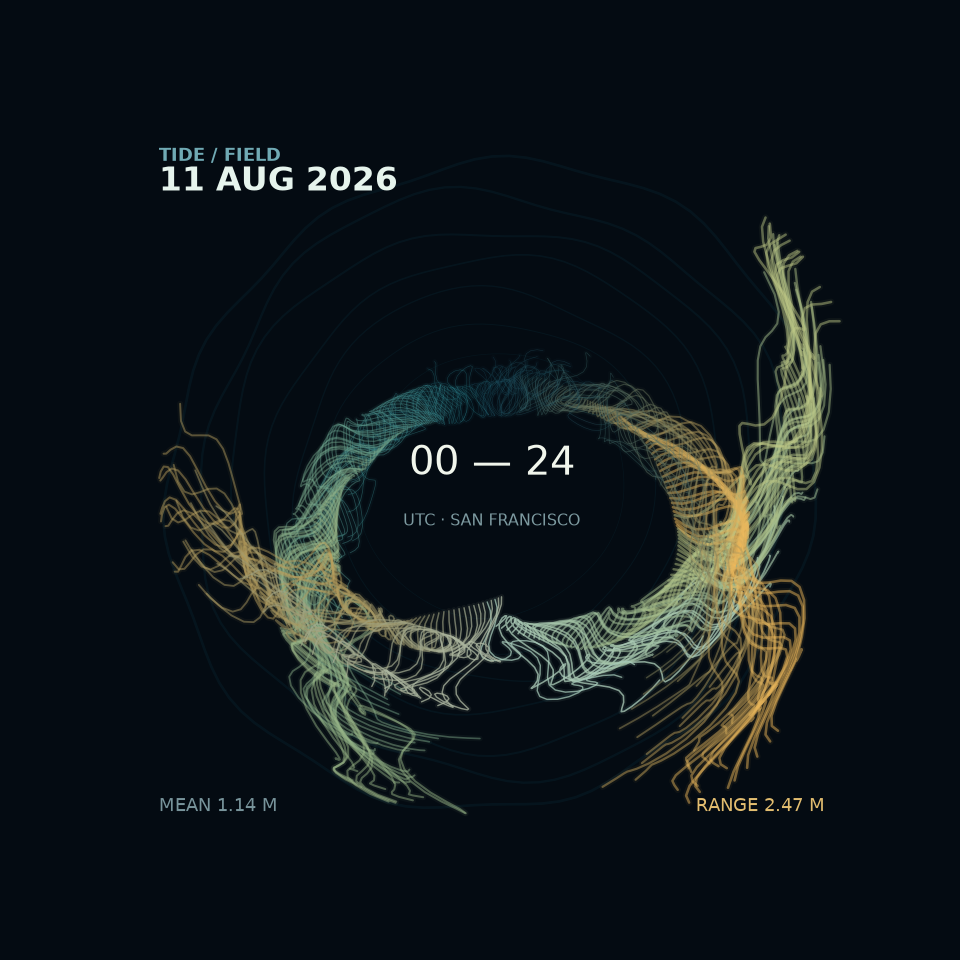
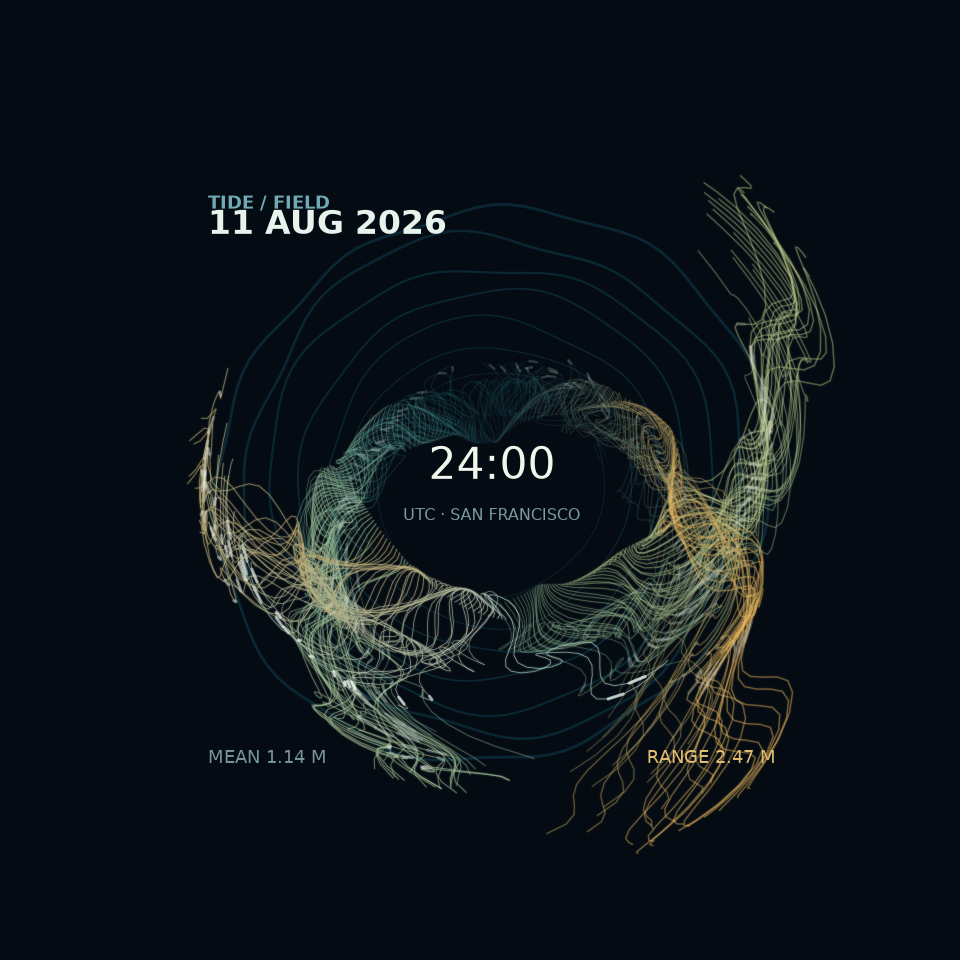
update plot

diff --git a/plot.py b/plot.py
@@ -9,7 +9,7 @@
 
 The renderer reads only the committed JSON in data/. Each of the 7,440 NOAA
 observations becomes a long streamline in a custom two-dimensional flow field.
-Eight frames reveal each UTC day in sequence, so the GIF follows the
+Twenty-four frames reveal each UTC day hour by hour, so the GIF follows the
 measurements' real order without fetching anything.
 """
 
@@ -24,11 +24,12 @@ matplotlib.use("Agg")  # create image files reliably, including on GitHub Action
 import matplotlib.pyplot as plt
 from matplotlib.animation import PillowWriter
 from matplotlib.collections import LineCollection
+from PIL import Image
 
 FILE = "noaa-san-francisco-water-level-2026-08.json"
 ANIMATION = "tidal-mycelium-2026-08.gif"
 STILL = "tidal-mycelium-still.png"
-STEPS_PER_DAY = 8  # one animated step per three hours of observations
+STEPS_PER_DAY = 24  # one animated step per hour, releasing ten six-minute readings
 
 HERE = Path(__file__).parent
 DATA = HERE / "data" / FILE
@@ -72,6 +73,12 @@ def mix(first, second, amount):
     return tuple(a + (b - a) * amount for a, b in zip(first, second))
 
 
+def smooth(value):
+    """Ease the birth of a new observed filament without a hard edge."""
+    value = clamp(value)
+    return value * value * (3 - 2 * value)
+
+
 def colour(level_fraction, rising):
     """Map low water to teal and high water to luminous mineral gold."""
     low = (0.03, 0.25, 0.33)
@@ -90,18 +97,24 @@ def day_stats(day, low_level, high_level, smallest_range, largest_range):
     return mean_fraction, range_fraction, day_mean, day_range
 
 
-def filament_collections(day, flow_phase, parameters, change_scale):
-    """Make a complete, slowly moving field from one day's 240 observations."""
+def filament_collections(day, release, parameters, change_scale, opacity=1.0, stride=1):
+    """Make the field accumulated up to this real time in the UTC day."""
     mean_fraction, range_fraction = parameters[:2]
     spread = 0.46 + 0.82 * range_fraction ** 0.72
     core = 0.13 + 0.25 * (1 - range_fraction) + 0.06 * (1 - mean_fraction)
     paths, colours, glow_colours, widths = [], [], [], []
+    particle_paths, particle_colours, particle_widths = [], [], []
 
-    for slot, row in enumerate(day):
+    for slot in range(0, len(day), stride):
+        row = day[slot]
         time_fraction = slot / (len(day) - 1)
-        # A soft, slow highlight travels round the clock. All 240 records remain
-        # present in every frame, rather than forming a first/second-stage image.
-        freshness = max(0, math.cos(2 * math.pi * (time_fraction - flow_phase))) ** 10
+        age = release - time_fraction
+        if age < -0.002:  # this six-minute measurement has not occurred yet
+            continue
+        arrival = smooth((age + 0.018) * STEPS_PER_DAY * 1.5)
+        # Earlier measurements persist as dim trails; newly released records glow.
+        persistence = 0.38 + 0.62 * math.exp(-0.34 * max(age, 0))
+        freshness = math.exp(-7.5 * max(age, 0))
         level_fraction = clamp((row["level"] - parameters[4]) / (parameters[5] - parameters[4]))
         previous = day[max(0, slot - 1)]["level"]
         change_fraction = clamp((row["level"] - previous) / change_scale, -1.0, 1.0)
@@ -111,18 +124,18 @@ def filament_collections(day, flow_phase, parameters, change_scale):
         radius = core + (0.14 + 0.42 * level_fraction) * spread
         # Long reach and a signed sweep create a water-current-like trail. They
         # remain determined by v and its six-minute change, not random particles.
-        reach = (0.13 + 0.52 * level_fraction) * spread
+        reach = (0.18 + 0.70 * level_fraction) * spread * (0.25 + 0.75 * arrival)
         curl = 0.16 + 0.86 * change_fraction
-        sweep = (0.28 + 0.36 * level_fraction + 0.42 * abs(change_fraction))
+        sweep = (0.34 + 0.44 * level_fraction + 0.52 * abs(change_fraction))
         sweep *= 1 if change_fraction >= 0 else -1
-        drift = 0.08 * math.sin(2 * math.pi * (flow_phase - time_fraction))
-        wiggle = 0.022 + 0.035 * range_fraction
+        drift = 0.08 * math.sin(2 * math.pi * (release - time_fraction))
+        wiggle = 0.028 + 0.048 * range_fraction
 
         thread = []
         for step in range(42):
             progress = step / 41
-            wave = math.sin(slot * 0.19 + step * 0.64 + flow_phase * math.pi * 2)
-            eddy = math.sin(slot * 0.07 - step * 0.31 + flow_phase * math.pi)
+            wave = math.sin(slot * 0.19 + step * 0.64 + release * math.pi * 2)
+            eddy = math.sin(slot * 0.07 - step * 0.31 + release * math.pi)
             angle = base_angle + (curl + drift) * progress + sweep * progress ** 1.28 + wiggle * wave
             distance = radius + reach * progress + wiggle * 1.8 * eddy * (1 - progress * 0.35)
             thread.append((distance * math.cos(angle), distance * math.sin(angle)))
@@ -130,19 +143,27 @@ def filament_collections(day, flow_phase, parameters, change_scale):
 
         flagged = row["flags"] != "0,0,0,0"
         quality_alpha = 0.76 if row["quality"] == "v" else 0.30
-        alpha = quality_alpha * (0.62 + 0.38 * freshness) * (0.18 if flagged else 1.0)
+        alpha = opacity * quality_alpha * persistence * arrival * (0.62 + 0.38 * freshness)
+        alpha *= 0.18 if flagged else 1.0
         red, green, blue = colour(level_fraction, change_fraction >= 0)
-        red, green, blue = mix((red, green, blue), (0.92, 0.99, 0.96), 0.08 + 0.42 * freshness)
+        red, green, blue = mix((red, green, blue), (0.92, 0.99, 0.96), 0.10 + 0.48 * freshness)
         colours.append((red, green, blue, alpha))
         glow_colours.append((red, green, blue, alpha * 0.11))
-        widths.append((0.16 + 0.82 * level_fraction) * (0.72 + 0.48 * range_fraction))
+        widths.append((0.09 + 0.48 * level_fraction) * (0.72 + 0.48 * range_fraction))
 
-    glow = LineCollection(paths, colors=glow_colours, linewidths=[width + 1.8 for width in widths], capstyle="round")
+        # A small dash moves along every actual record's curve as the clock advances.
+        particle_index = int(((release * 1.6 + time_fraction * 0.35) % 1) * (len(thread) - 2))
+        particle_paths.append(thread[particle_index:particle_index + 2])
+        particle_colours.append((0.96, 1.0, 0.98, alpha * (0.35 + 0.65 * freshness)))
+        particle_widths.append(widths[-1] + 1.05)
+
+    glow = LineCollection(paths, colors=glow_colours, linewidths=[width + 1.15 for width in widths], capstyle="round")
     threads = LineCollection(paths, colors=colours, linewidths=widths, capstyle="round")
-    return glow, threads
+    particles = LineCollection(particle_paths, colors=particle_colours, linewidths=particle_widths, capstyle="round")
+    return glow, threads, particles
 
 
-def water_ripples(ax, parameters, flow_phase):
+def water_ripples(ax, parameters, release):
     """Draw broad, data-driven water ripples behind the streamlines."""
     mean_fraction, range_fraction = parameters[:2]
     paths, colours, widths = [], [], []
@@ -152,37 +173,64 @@ def water_ripples(ax, parameters, flow_phase):
         amplitude = 0.010 + (0.014 + 0.020 * range_fraction) * (ring + 1) / 7
         for step in range(121):
             angle = 2 * math.pi * step / 120
-            wave = math.sin((2 + ring % 3) * angle - flow_phase * math.pi * 2)
+            wave = math.sin((2 + ring % 3) * angle - release * math.pi * 2)
             cross_wave = 0.45 * math.sin((5 + ring) * angle + mean_fraction * math.pi * 2)
             radius = base_radius + amplitude * (wave + cross_wave)
             points.append((radius * math.cos(angle), radius * math.sin(angle)))
         paths.append(points)
-        colours.append((0.08, 0.46, 0.57, 0.07 + 0.025 * range_fraction))
-        widths.append(0.30 + 0.15 * ring)
+        colours.append((0.14, 0.64, 0.77, 0.14 + 0.040 * range_fraction))
+        widths.append(0.34 + 0.16 * ring)
     ax.add_collection(LineCollection(paths, colors=colours, linewidths=widths))
 
 
-def draw_frame(ax, day, flow_phase, parameters, change_scale):
-    """Draw one complete daily field with a gently moving water surface."""
+def ghost_snapshot(day, parameters, change_scale):
+    """Render one day's threads once, ready to fade behind the following day."""
+    figure = plt.figure(figsize=(6, 6), dpi=58)
+    figure.patch.set_alpha(0)
+    axes = figure.add_axes((0, 0, 1, 1))
+    axes.patch.set_alpha(0)
+    axes.set_aspect("equal")
+    axes.set_xlim(-1.90, 1.90)
+    axes.set_ylim(-1.90, 1.90)
+    axes.axis("off")
+    glow, threads, particles = filament_collections(day, 1.0, parameters, change_scale)
+    axes.add_collection(glow)
+    axes.add_collection(threads)
+    axes.add_collection(particles)
+    figure.canvas.draw()
+    image = Image.frombytes("RGBA", figure.canvas.get_width_height(), bytes(figure.canvas.buffer_rgba()))
+    plt.close(figure)
+    return image
+
+
+def draw_frame(ax, day, ghost, release, parameters, change_scale):
+    """Draw a daily field where the previous day dissolves as this one grows."""
     mean_fraction, range_fraction, day_mean, day_range, low_level, high_level = parameters
     ax.clear()
     ax.set_facecolor("#040b12")
     ax.set_aspect("equal")
-    ax.set_xlim(-1.62, 1.62)
-    ax.set_ylim(-1.62, 1.62)
+    ax.set_xlim(-1.90, 1.90)
+    ax.set_ylim(-1.90, 1.90)
     ax.axis("off")
 
-    water_ripples(ax, parameters, flow_phase)
-    glow, threads = filament_collections(day, flow_phase, parameters, change_scale)
+    water_ripples(ax, parameters, release)
+    if ghost is not None:
+        # Retain yesterday as a dim memory at midnight, then dissolve it gradually.
+        ghost_opacity = 0.30 * (1 - release) ** 0.58
+        ax.imshow(ghost, extent=(-1.90, 1.90, -1.90, 1.90), alpha=ghost_opacity, zorder=1)
+    glow, threads, particles = filament_collections(day, release, parameters, change_scale)
     ax.add_collection(glow)
     ax.add_collection(threads)
+    ax.add_collection(particles)
 
     date_label = day[0]["time"].strftime("%d AUG 2026")
     ax.text(-1.46, 1.42, "TIDE / FIELD", color="#70aab4", fontsize=8, weight="bold", ha="left")
     ax.text(-1.46, 1.29, date_label, color="#e6f4ed", fontsize=15, weight="bold", ha="left")
     ax.text(-1.46, -1.43, f"MEAN {day_mean:0.2f} M", color="#78949b", fontsize=8, ha="left")
     ax.text(1.46, -1.43, f"RANGE {day_range:0.2f} M", color="#e3be70", fontsize=8, ha="right")
-    ax.text(0, 0.09, "00 — 24", color="#f1f6ec", fontsize=18, ha="center", va="center")
+    hour = round(release * 24)
+    clock = "24:00" if hour == 24 else f"{hour:02}:00"
+    ax.text(0, 0.09, clock, color="#f1f6ec", fontsize=20, ha="center", va="center")
     ax.text(0, -0.16, "UTC · SAN FRANCISCO", color="#7d9aa0", fontsize=7, ha="center", va="center")
 
 
@@ -211,16 +259,18 @@ def main():
     OUT.mkdir(exist_ok=True)
 
     fig, ax = canvas()
+    ghosts = [ghost_snapshot(day, parameter, change_scale) for day, parameter in zip(days, parameters)]
     writer = PillowWriter(fps=8)
-    with writer.saving(fig, OUT / ANIMATION, dpi=100):
+    with writer.saving(fig, OUT / ANIMATION, dpi=58):
         for index, day in enumerate(days):
+            ghost = ghosts[index - 1] if index else None
             for step in range(STEPS_PER_DAY):
-                flow_phase = step / STEPS_PER_DAY
-                draw_frame(ax, day, flow_phase, parameters[index], change_scale)
+                release = (step + 1) / STEPS_PER_DAY
+                draw_frame(ax, day, ghost, release, parameters[index], change_scale)
                 writer.grab_frame()
     print(f"saved out/{ANIMATION}")
 
-    draw_frame(ax, days[widest_index], 0.0, parameters[widest_index], change_scale)
+    draw_frame(ax, days[widest_index], None, 1.0, parameters[widest_index], change_scale)
     fig.savefig(OUT / STILL, dpi=160, facecolor=fig.get_facecolor())
     print(f"saved out/{STILL}")
     plt.close(fig)
